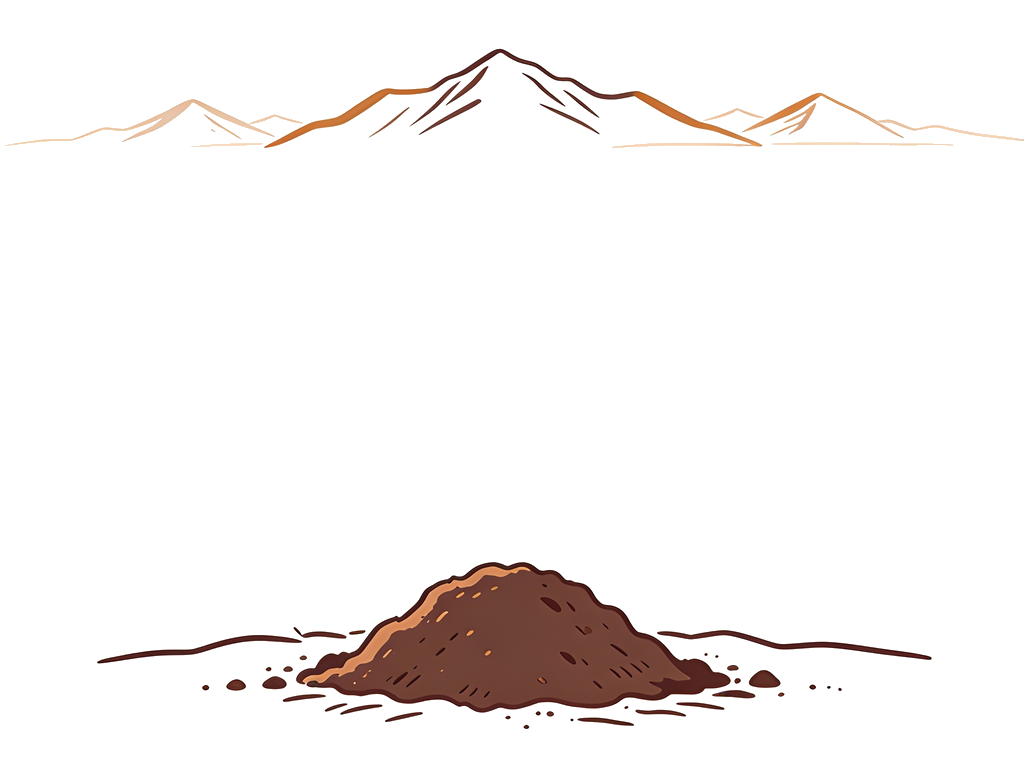
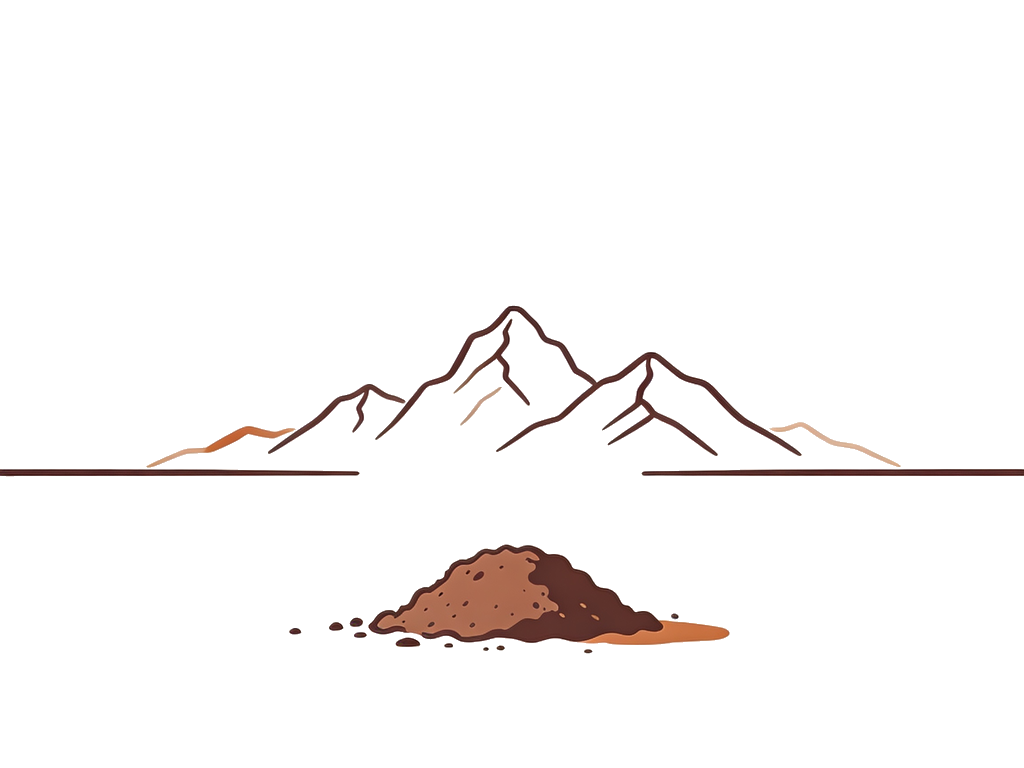
M2: ingest 11 more AI images + swap molehill take (37/44); external <img> 41->30
Batch mapped by content from the contact sheet: overdue-bills (tech debt),
theatre masks (role-play), small folders (small files), hidden handshake (side
agreements), cash envelopes (grandma's envelope), ant+giant-leaf (scaling
fallacy), child-out-of-box (unencapsulate), foreman (architect-is-not), EKG
(vital signs), whiteboard question mark (what is good code), blueprint compass
(what is an architect). Also re-ingested the preferred molehill take per request.

Flickr concepts owned: 37/44. Manifest local 108->119; external <img> 66->30
across the project. Suite green.

diff --git a/paying-off-technical-debt.md b/paying-off-technical-debt.md
@@ -45,7 +45,7 @@ comments:
     comment: |
       Greetings from Colorado! I'm bored to death at work so I decided to browse your website on my iphone during lunch break. I really like the discussion of programming comments you provide here and can't wait to read more. Anyhow, awesome blog!
 ---
-<figure><img alt="" src="http://farm3.staticflickr.com/2785/4105722502_a442444bb9_n.jpg" height="320" width="213" /><figcaption>We don't get spam about how to consolidate our technical debts. :-) Image credit: Alan Cleaver (Flickr)</figcaption></figure>
+<figure><img alt="" src="assets/debt-overdue-bills.png" /><figcaption>We don't get spam about how to consolidate our technical debts. :-)</figcaption></figure>
 <blockquote><em>“Interest never sleeps nor sickens nor dies; it never goes to the hospital; it works on Sundays and holidays; it never takes a vacation; it never visits nor travels; it takes no pleasure; it is never laid off work nor discharged from employment; it never works on reduced hours. . . . Once in debt, interest is your companion every minute of the day and night; you cannot shun it or slip away from it; you cannot dismiss it; it yields neither to entreaties, demands, or orders; and whenever you get in its way or cross its course or fail to meet its demands, it crushes you.”</em>
 <p style="padding-left:30px;"><em>— <a class="zem_slink" title="J. Reuben Clark" href="http://en.wikipedia.org/wiki/Reuben_Clark" target="_blank" rel="wikipedia">J. Reuben Clark</a></em></p>
 </blockquote>

diff --git a/role-play-centered-design.md b/role-play-centered-design.md
@@ -12,7 +12,7 @@ User-centered design (UCD) is important. I hope I've been a good advocate for it
 
 However, UCD rarely yields all potential benefits, which is why I'd like to suggest a specialized form of UCD for many software teams. I'll dub this idea "Role-Play Centered Design" (RPCD, prounounced /ˈrɪpˌsɪd/) because of the way the various parts of the system come to life. (This idea is similar to &mdash; though conceived independently from &mdash; the concepts in <a title="The use of improvisational role-play in user centered design processes" href="http://dl.acm.org/citation.cfm?id=1772520" target="_blank">this article</a> from the proceedings of HCI '07.)
 
-<figure><img alt="" src="http://farm7.staticflickr.com/6151/6257521499_10eb09fd45_d.jpg" width="500" height="357" /><figcaption>Role plays can help you build software &mdash; not just entertain. Photo credit: TheArches (Flickr)</figcaption></figure>
+<figure><img alt="" src="assets/roleplay-masks-stage.png" /><figcaption>Role plays can help you build software &mdash; not just entertain.</figcaption></figure>
 
 <strong>Manifesto</strong>
 

diff --git a/small-files-are-your-friends.md b/small-files-are-your-friends.md
@@ -90,7 +90,7 @@ After I pondered his question for a while, I realized that some of my opinion re
 
 However, I also found some arguments for the small-file principle that feel more substantive. Small files are your friends.
 
-<figure><img alt="" src="http://farm5.staticflickr.com/4002/5166773331_bb50dfa3b0.jpg" width="500" height="320" /><figcaption>More small friends. Photo credit: miguelandresen (Flickr)</figcaption></figure>
+<figure><img alt="" src="assets/small-files-folders.png" /><figcaption>More small friends.</figcaption></figure>
 
 <strong>Named scopes and cognitive complexity</strong>
 

diff --git a/taming-side-agreements.md b/taming-side-agreements.md
@@ -30,7 +30,7 @@ When I was a technical director at Symantec, I had to formally certify at the en
 
 A side agreement is any arrangement that takes place out-of-band, off-the-books, or using private channels not normally examined by accountants. In business, they are usually a bad thing; they can be used to build Enron- or Madoff-style house-of-cards revenue pipelines that are gleaming and glittery at first glance, but that are ripe for collapse because they're full of hidden caveats and preconditions.
 
-<figure><img src="https://farm4.staticflickr.com/3593/3389046866_c642884f48_z_d.jpg" width="640" height="283" /><figcaption>The former Enron towner, now owned by Chevron. Image credit: DaveWilsonPhotography (Flickr)</figcaption></figure>
+<figure><img src="assets/side-agreement-handshake.png" /><figcaption>The former Enron towner, now owned by Chevron.</figcaption></figure>
 
 The problem of side agreements might not impinge on the consciousness of software engineers much, except when they grumble that sales or execs or product management is "selling the roadmap" instead of shipping features. But would you believe me if I said that engineers perpetrate their own Enron-esque side agreements all the time?
 

diff --git a/tech-debt-leverage-and-grandmas-envelope.md b/tech-debt-leverage-and-grandmas-envelope.md
@@ -57,7 +57,7 @@ Of course, just because it was smart to buy on credit doesn't mean you should ma
 
 I can remember my grandmother whistling in the kitchen as she sealed an envelope and put a stamp on it.
 
-<figure><img alt="" src="http://farm5.staticflickr.com/4088/4984697380_29b76f123f_m.jpg" width="240" height="161" /><figcaption>Image credit: Sean Loyless (Flickr)</figcaption></figure>
+<figure><img alt="" src="assets/envelope-budget.png" /></figure>
 
 "What are you mailing?" I asked.
 

diff --git a/the-scaling-fallacy.md b/the-scaling-fallacy.md
@@ -40,7 +40,7 @@ One of my favorite books, <a href="http://www.amazon.com/Universal-Principles-D
 
 Have you ever heard that an ant can lift many times its own weight &mdash; and that if that if one were the size of a human, it could hoist a car over its head with ease? The first part of that assertion is true, but the conclusion folks draw is completely bogus. Exoskeletons cease to be a viable structure on which to anchor muscle and tissue at sizes much smaller than your average grown-up; the <a class="zem_slink" title="Specific strength" href="http://en.wikipedia.org/wiki/Specific_strength" target="_blank" rel="wikipedia">strength-to-weight ratio</a> just isn't good enough. Chitin is only about as tough as fingernails.
 
-<figure><img alt="" src="http://farm9.staticflickr.com/8050/8146750081_0e07106d00.jpg" width="500" height="264" /><figcaption>Tough little bugger &mdash; but not an olympic champion at human scale. Image credit: D.A.Otee (Flickr)</figcaption></figure>
+<figure><img alt="" src="assets/scaling-ant-leaf.png" /><figcaption>Tough little bugger &mdash; but not an olympic champion at human scale.</figcaption></figure>
 
 I'd long understood the flaws in the big-ant-lifting-cars idea, but the flight example from the book was virgin territory for me.
 

diff --git a/unencapsulate-yourself.md b/unencapsulate-yourself.md
@@ -30,7 +30,7 @@ comments:
       
       PS. A funny thing: in Russia the analog of "jack of all trades" (which sounds like 'all-hands master') has a positive connotation. So it makes sense to think positively :)
 ---
-<figure><img alt="" src="http://farm4.staticflickr.com/3040/2998411234_ceb9e6f752_n.jpg" height="320" width="212" /><figcaption>We loved to escape the boxes when we were kids... Photo credit: thewoodenshoes (Flickr)</figcaption></figure>
+<figure><img alt="" src="assets/unencapsulate-box-child.png" /><figcaption>We loved to escape the boxes when we were kids...</figcaption></figure>
 
 If I had to make a "top 5" list of foundational tools in software development, <em><a class="zem_slink" title="Encapsulation (object-oriented programming)" href="http://en.wikipedia.org/wiki/Encapsulation_%28object-oriented_programming%29" target="_blank" rel="wikipedia">encapsulation</a></em> would certainly make the cut. It's a major enabler of abstraction; it's what makes conceptual complexity tractable.
 

diff --git a/what-a-software-architect-is-not.md b/what-a-software-architect-is-not.md
@@ -10,7 +10,7 @@ redirect_from:
 ---
 In <a href="what-is-a-software-architect.md">another post</a>, I defined the role of a software architect. This post points out some duties that are not necessarily part of his or her job, for clarity.
 
-<figure><img class="  " title="An architect is not a lead engineer or a foreman..." src="http://farm4.staticflickr.com/3567/3770093556_30c3c38029_n_d.jpg" alt="foreman" width="240" height="320" align="right" /><figcaption>A foreman &mdash; vital but usually not the same person as the architect. Photo credit: USFS Region 5 (Flickr).</figcaption></figure>
+<figure><img class="  " title="An architect is not a lead engineer or a foreman..." src="assets/foreman-hardhat.png" alt="foreman" align="right" /><figcaption>A foreman &mdash; vital but usually not the same person as the architect.</figcaption></figure>
 
 * An architect is not necessarily a lead engineer. Lead engineers translate architectural guidelines and vision into implementation, not just in the design phase, but all the way through RTM. Lead engineers work for dev managers and are accountable directly to them. Lead engineers might have a technical director pay grade, but whether they are asked to function as architects is a separate question. When lead engineers push back, it's usually about whether an implementation works or is reasonable, not about whether a vision is the right one. Lead engineers may "own" a particular facet of the technology portfolio through multiple release cycles, and this cross-release perspective is architect-like. However, lead engineers are far less likely to radically question the value of what they own than an architect, because an architect is looking at a bigger picture over a longer horizon. When Bill Gates told every MS employee to drop what they were doing and spend a month thinking about the Internet because the company wasn't "getting it," he was being an architect. The lead engineers on all the projects and components that ultimately got ditched so MS could go chase the web wave would never have done that.
 

diff --git a/what-are-your-softwares-vital-signs.md b/what-are-your-softwares-vital-signs.md
@@ -20,6 +20,6 @@ Most software has a profoundly inadequate concept of "health." In order for appl
 
 In my <a title="cloudify - check vital signs" href="http://www.adaptivecomputing.com/blog-cloud/how-to-cloudify-your-software-part-4-check-those-vital-signs/" target="_blank">most recent post</a> on <a title="cloudify software series" href="../../../category/cloudify" target="_blank">cloudifying your software</a>, I explore how cloud computing is magnifying the need to understand and to regularly check your software's vital signs. Head on over to adaptivecomputing.com/blog and check it out.
 
-<figure><img alt="" src="http://farm8.staticflickr.com/7323/9009986079_3ecc0332bc.jpg" width="500" height="333" /><figcaption>Checking vitals isn't just for healthc... Photo credit: U.S. Pacific Fleet (Flickr)</figcaption></figure>
+<figure><img alt="" src="assets/vital-signs-ekg.png" /><figcaption>Checking vitals isn't just for healthc...</figcaption></figure>
 
 Stay tuned for further installments of this series each Friday. As I said in <a title="Programmers: learn how to “cloudify”" href="programmers-learn-how-to-cloudify.md" target="_blank">Part 1</a>, I believe that a competence with cloud&mdash;cloud-oriented programming, if you will&mdash;will be a checkbox on future tech resumes.

diff --git a/what-is-a-software-architect.md b/what-is-a-software-architect.md
@@ -16,7 +16,7 @@ An architect is responsible for the strategic health of a technology portfolio. 
 
 The overall goal of the architecture function is to maximize dev ROI and technical competitive advantage over the long run.
 
-<figure><img title="An architect lays out a vision..." src="http://farm6.staticflickr.com/5291/5424759413_5c80125755_d.jpg" alt="" width="500" height="420" /><figcaption>An architect lays out a vision. Photo Credit: mootown (flickr.com).</figcaption></figure>
+<figure><img title="An architect lays out a vision..." src="assets/architect-blueprint.png" alt="" /><figcaption>An architect lays out a vision.</figcaption></figure>
 
 By its very nature, architecture is broad in scope and overlaps with many other disciplines. Because it concerns itself with fragility, boundary conditions, and theoretical limits, it needs to interact with design and actual code, and architects must be proficient engineers. Because it cares about supporting potential uses beyond the confines of a specific release, architecture must consider the market landscape from both a business and a technological perspective, and it must understand when short-term compromises carry long-term risks.
 

diff --git a/what-is-good-code.md b/what-is-good-code.md
@@ -23,7 +23,7 @@ Sometimes I get answers like this:
 	<li>"Whatever sells."</li>
 	<li>"Whatever solves the customer problem."</li>
 </ul>
-<figure><img class="   " title="Interview Questions" alt="" src="http://farm5.staticflickr.com/4027/4607151156_d8b9c7554d_o.jpg" width="358" height="239" /><figcion>Answering tough interview questions. Photo credit: bpsusf (Flickr).</figcaption></figure>
+<figure><img class="   " title="Interview Questions" alt="" src="assets/good-code-question.png" /><figcion>Answering tough interview questions. Photo credit: bpsusf (Flickr).</figcaption></figure>
 
 Such answers tell me that an engineer is practical, business-aware, and customer-focused &mdash; all useful traits. <a title="Earned Pragmatism" href="earned-pragmatism.md">Pragmatism is usually learned in the economic school of hard knocks</a>, and it's a critical perspective that should never be forgotten. But I don't get a warm fuzzy from pure pragmatism; it lacks vision or love of craft.
 